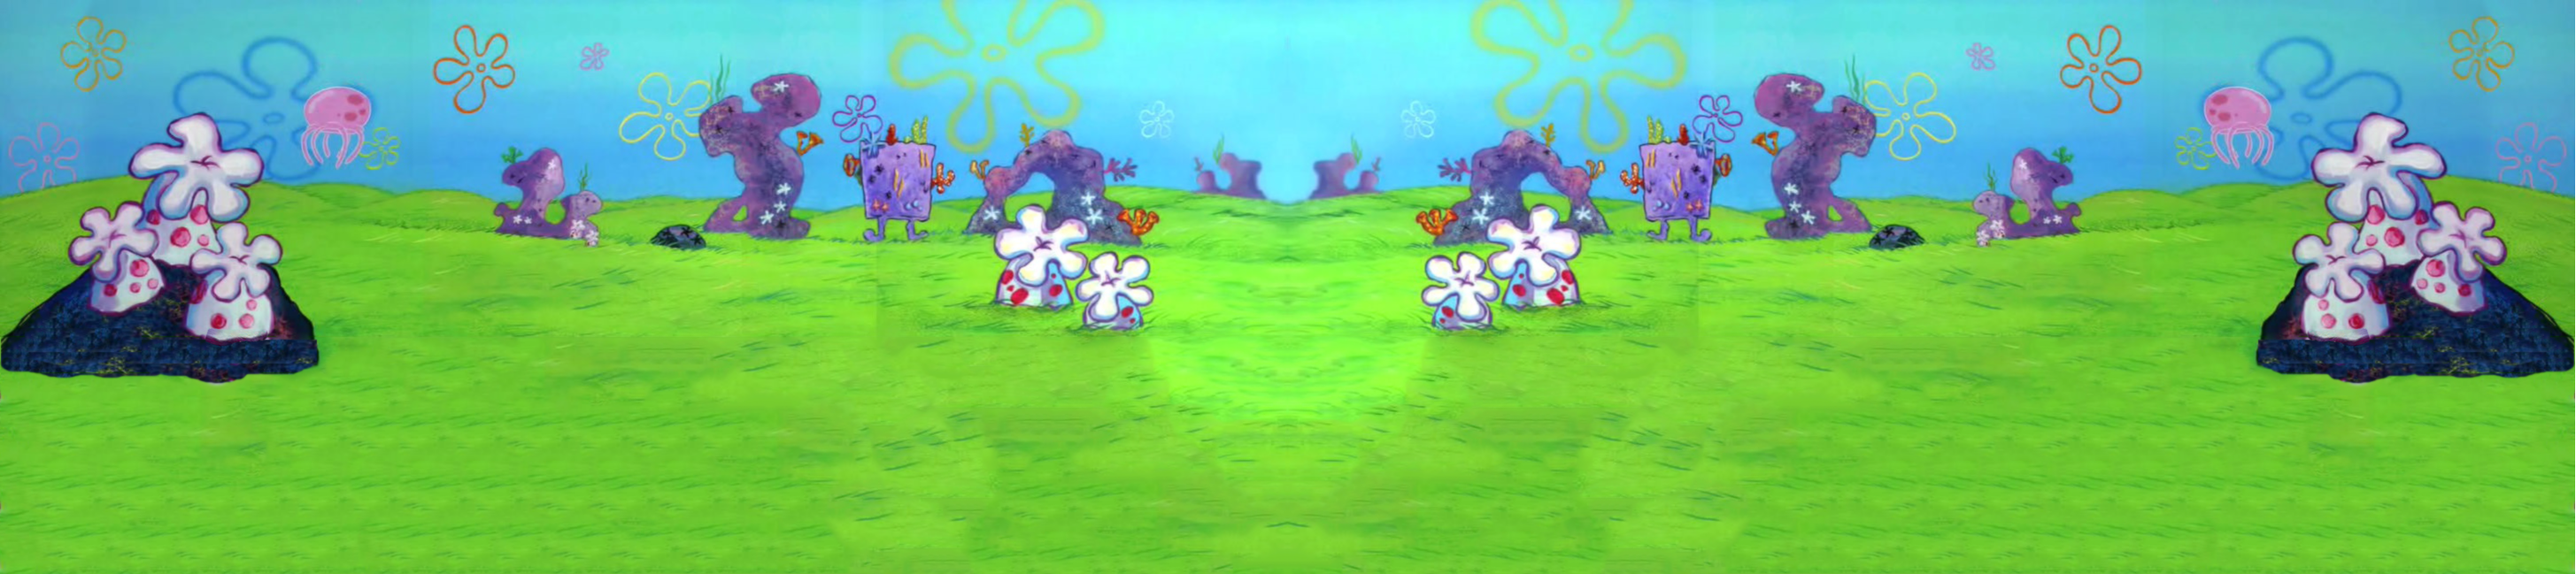
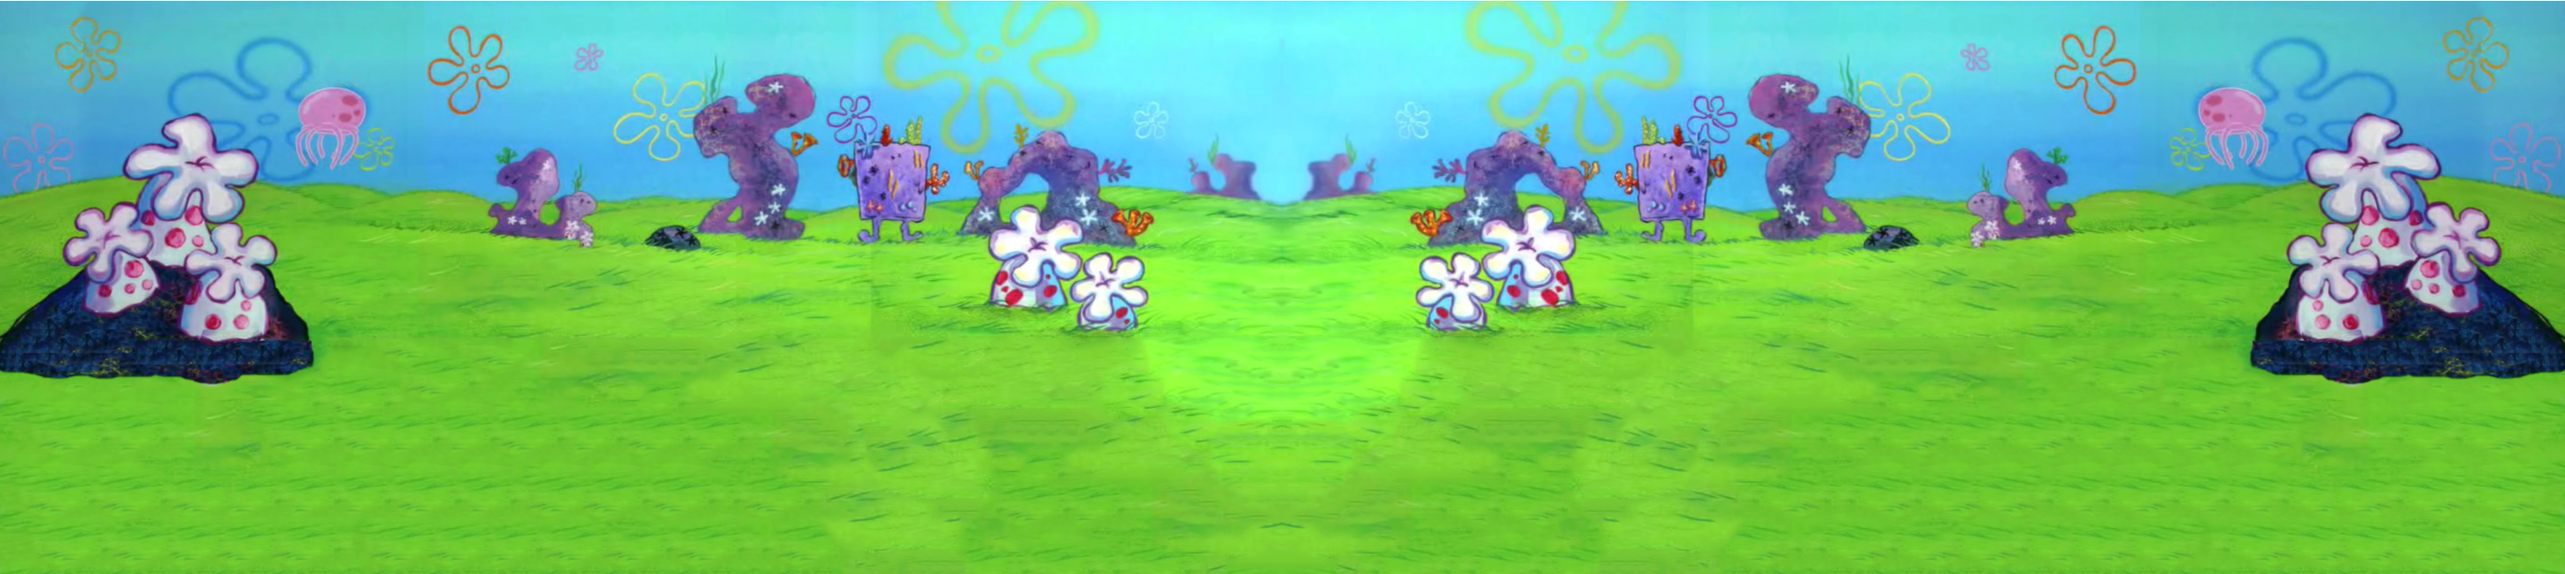
Dodate pozadine i teksture nivoa

diff --git a/src/krabbyPatty/leveldata.cpp b/src/krabbyPatty/leveldata.cpp
@@ -6,7 +6,7 @@ LevelData::LevelData()
     backgrounds = {":/images/level1.jpg",
                   ":/images/level2.png",
                   ":/images/level3.png",
-                  ":/images/level1.jpg",
+                  ":/images/level4.png",
                   ":/images/level1.jpg",
                   ":/images/level1.jpg"};
 
@@ -18,7 +18,7 @@ LevelData::LevelData()
                   ":/images/pickles.png"};
 
     levelMaps = {":/LevelMaps/level1.txt",
-                ":/LevelMaps/level1.txt",
+                ":/LevelMaps/level2.txt",
                 ":/LevelMaps/level1.txt",
                 ":/LevelMaps/level1.txt",
                 ":/LevelMaps/level1.txt",

diff --git a/src/krabbyPatty/level.cpp b/src/krabbyPatty/level.cpp
@@ -166,6 +166,18 @@ void Level::addObject(char type, int x,int y){
             scene->addItem(ingredient);
             break;
     }
+    case 'X' :{
+            Ingredient *ingredient = new Ingredient(playerWidth, ":/images/jellyfish.png");
+            ingredient->setPos(x, (0.225 + y * 0.25 )*screenHeight);
+            scene->addItem(ingredient);
+            break;
+    }
+    case '+' :{
+            Ingredient *ingredient = new Ingredient(playerHeight*1.41, ":/images/flag.png");
+            ingredient->setPos(x, (0.225 + y * 0.23 )*screenHeight);
+            scene->addItem(ingredient);
+            break;
+    }
         default :
             break;
     }
